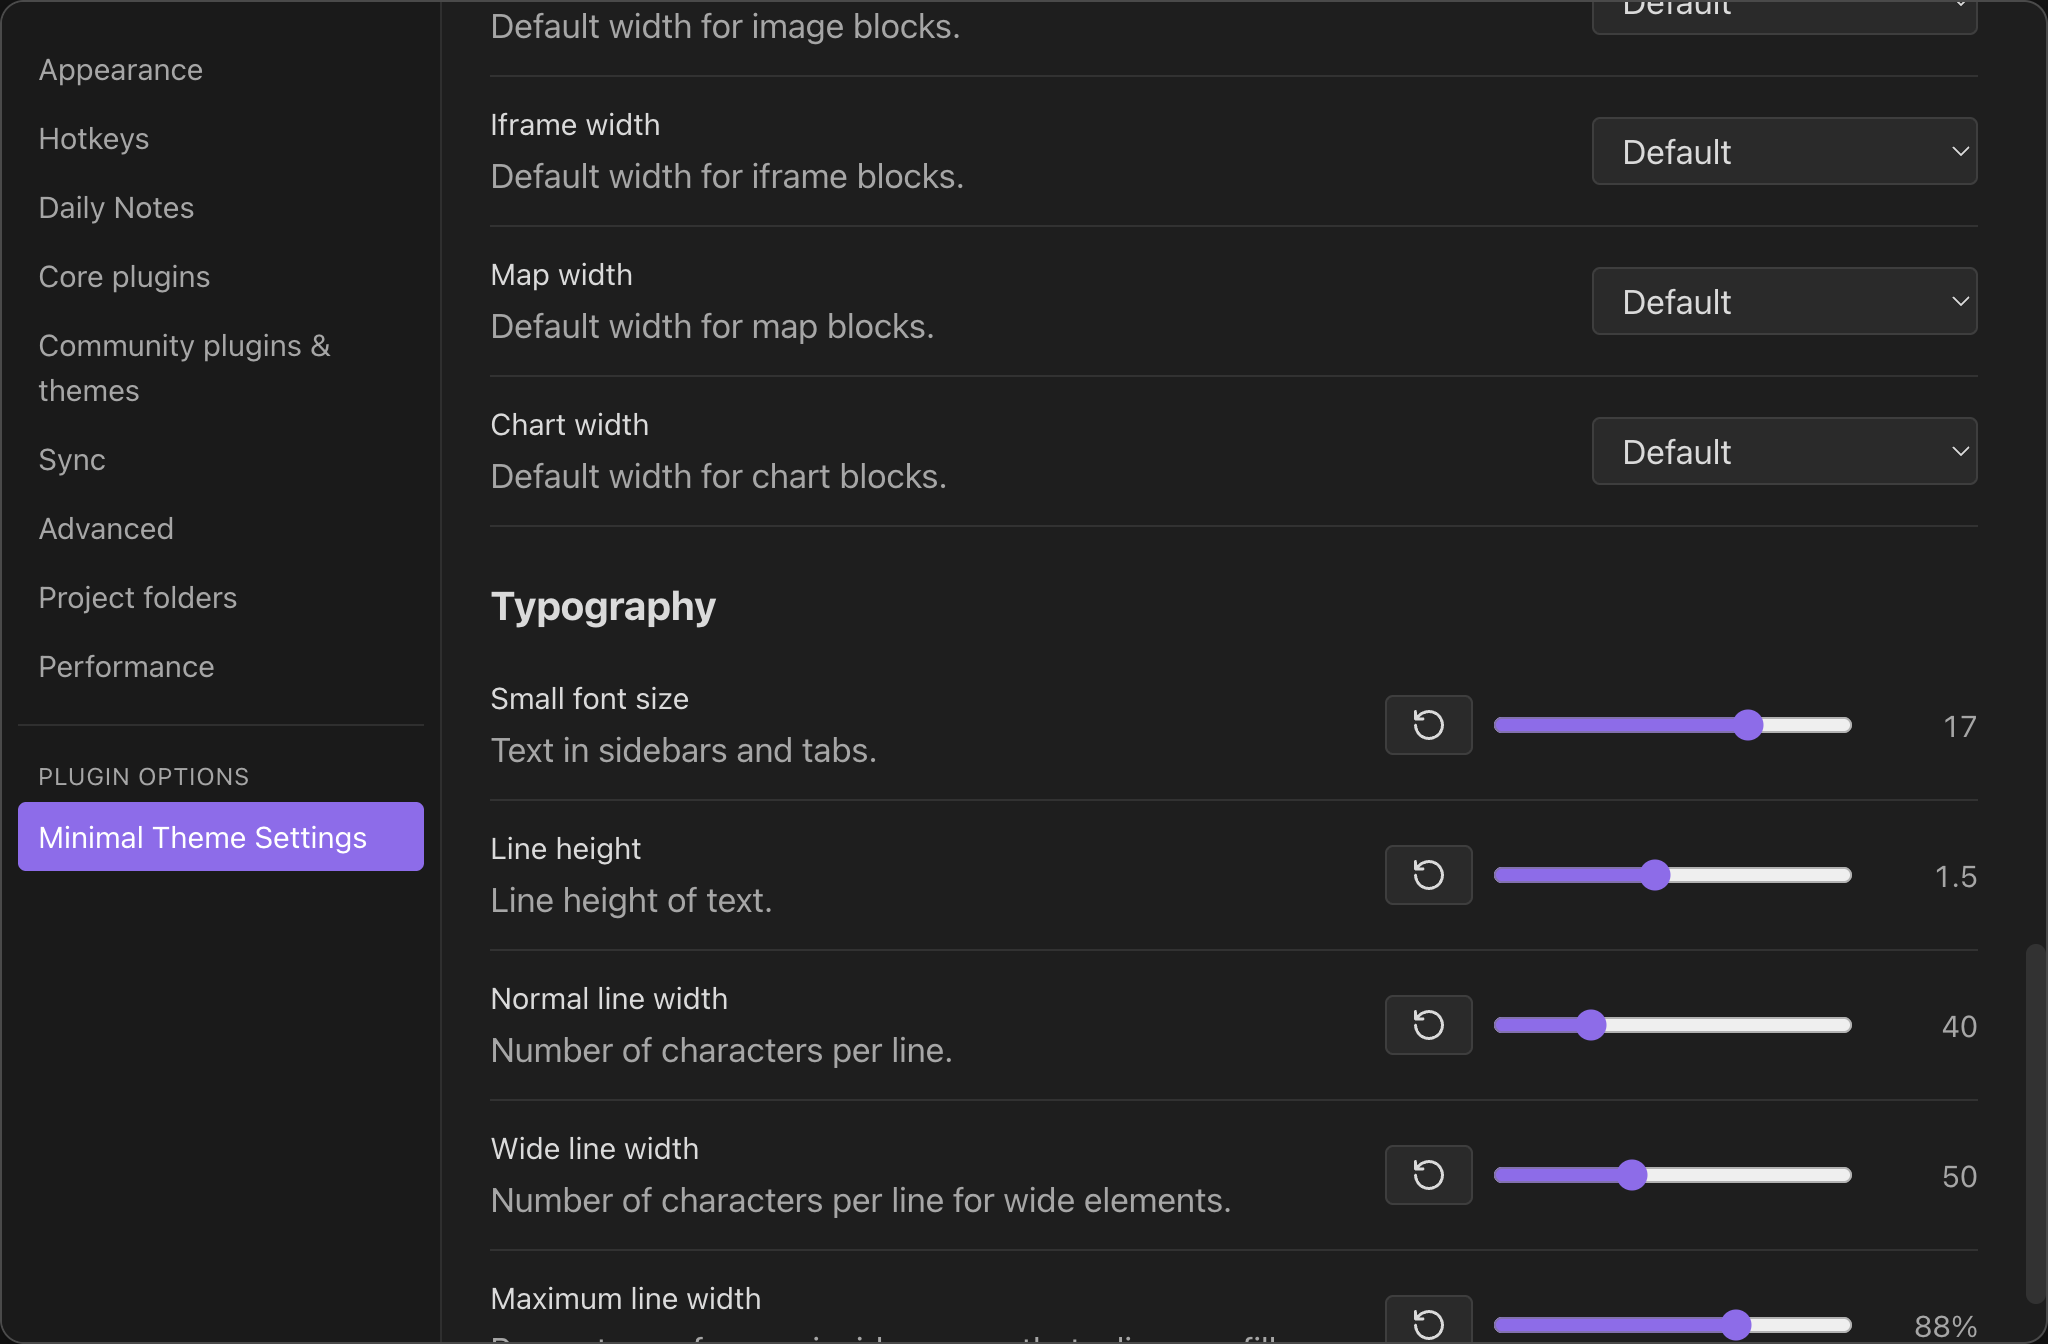
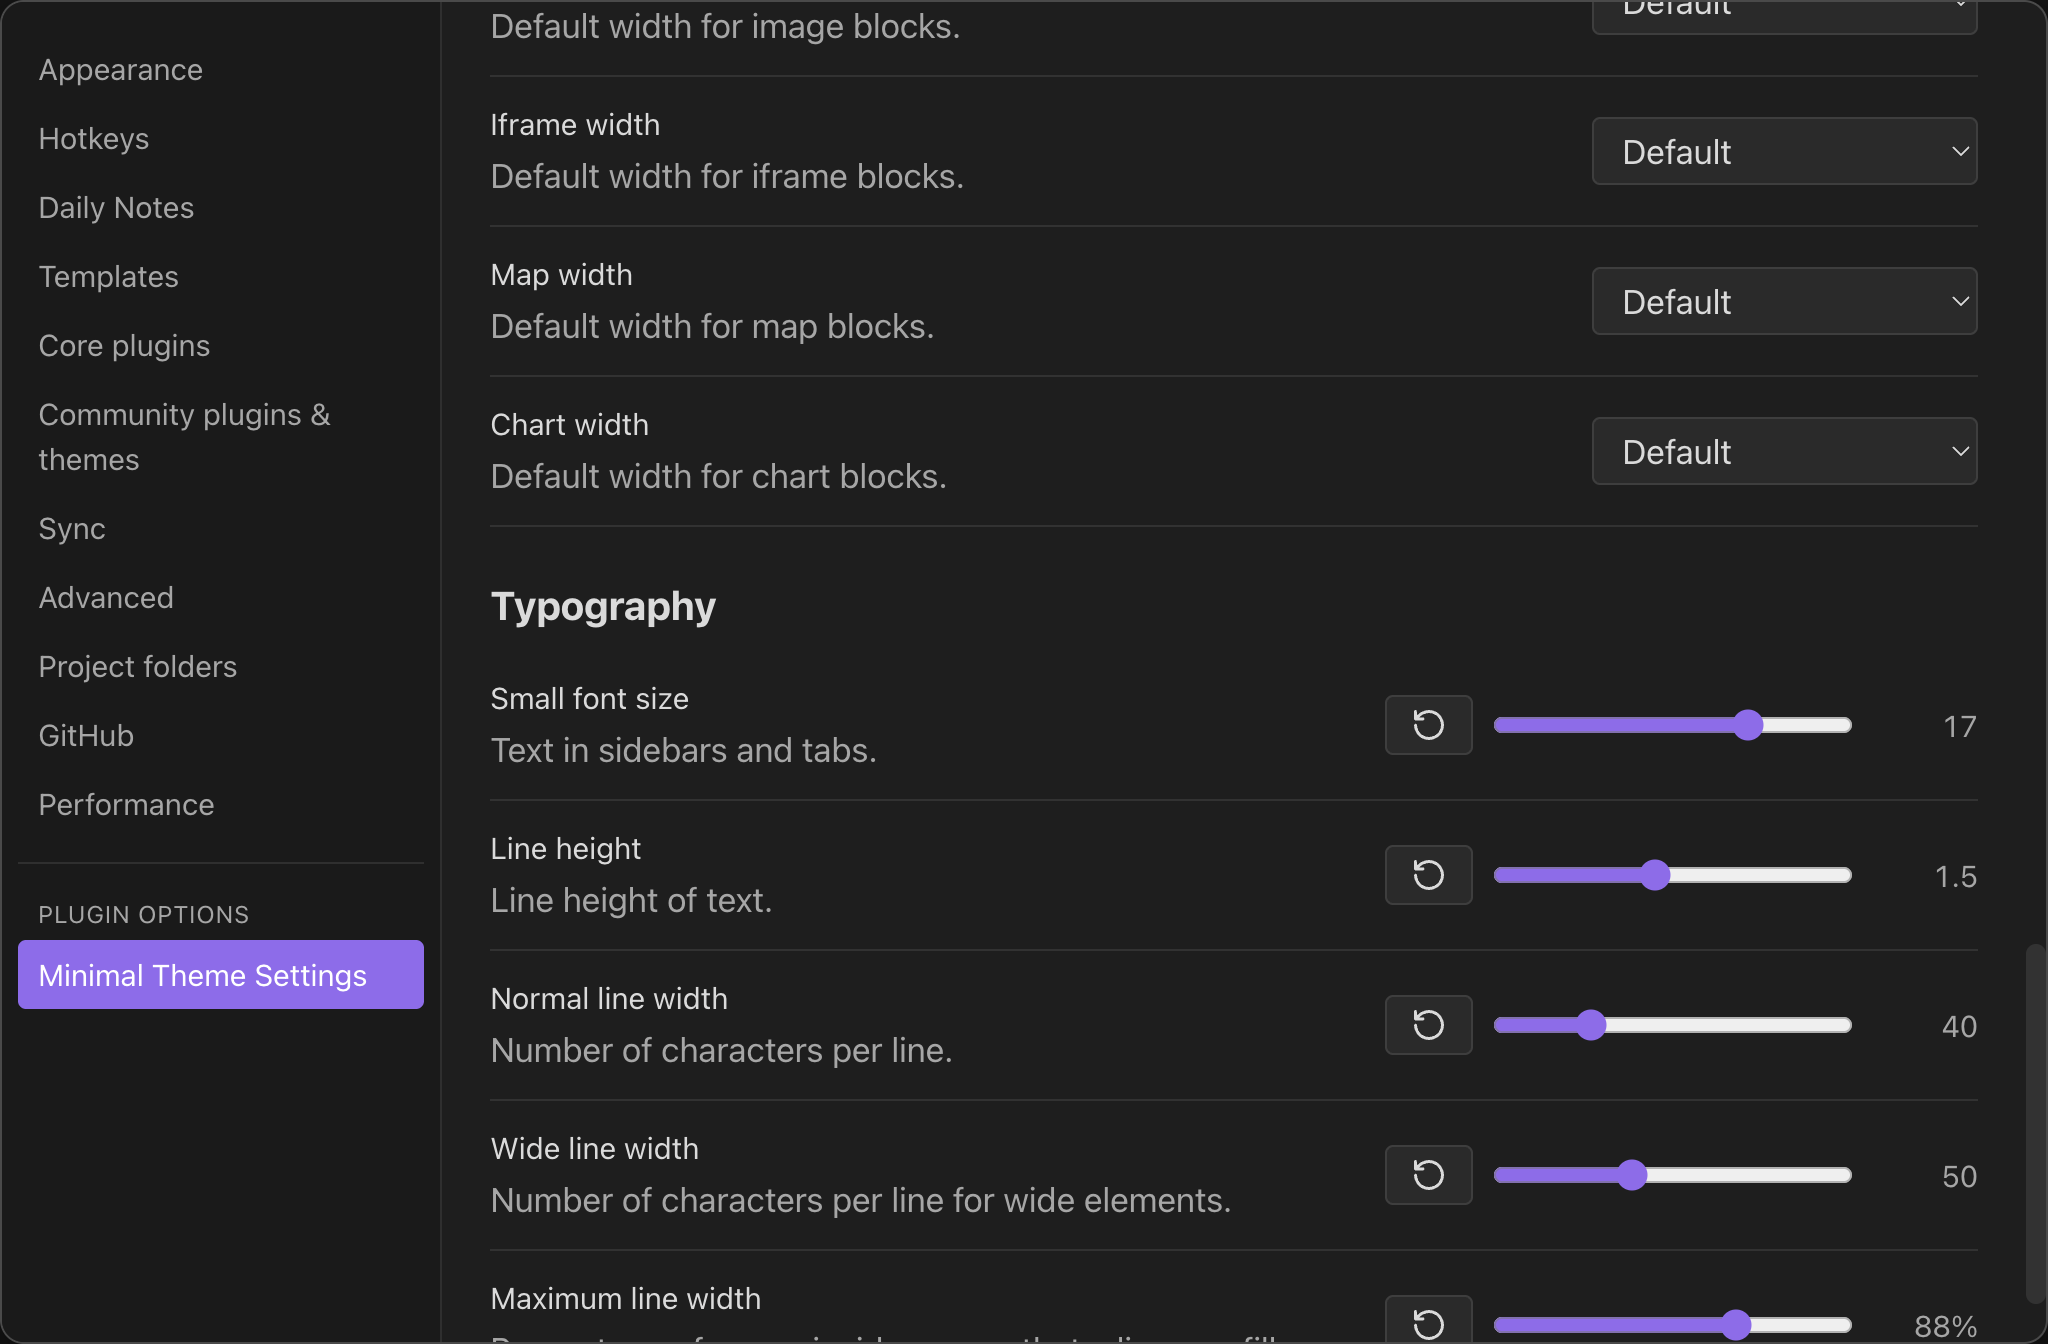
feat(mobile): native plugin network bridge and wss relay CSP
requestUrl/fetch from plugins were blocked by the shell CSP on mobile.
Route them through URLSession and allow wss: for the Threads relay.

diff --git a/ios/App/App/GeodeManagedVaultPlugin.swift b/ios/App/App/GeodeManagedVaultPlugin.swift
@@ -111,7 +111,9 @@ final class GeodeManagedVaultPlugin: CAPPlugin, CAPBridgedPlugin, UIDocumentPick
             CAPPluginMethod(name: "getSecret", returnType: CAPPluginReturnPromise),
             CAPPluginMethod(name: "setSecret", returnType: CAPPluginReturnPromise),
             CAPPluginMethod(name: "removeSecret", returnType: CAPPluginReturnPromise),
-            CAPPluginMethod(name: "openExternal", returnType: CAPPluginReturnPromise)
+            CAPPluginMethod(name: "openExternal", returnType: CAPPluginReturnPromise),
+            CAPPluginMethod(name: "httpRequest", returnType: CAPPluginReturnPromise),
+            CAPPluginMethod(name: "cancelHttpRequest", returnType: CAPPluginReturnPromise)
         ]
 #if DEBUG
         methods.append(CAPPluginMethod(name: "debugProbe", returnType: CAPPluginReturnPromise))
@@ -506,6 +508,68 @@ final class GeodeManagedVaultPlugin: CAPPlugin, CAPBridgedPlugin, UIDocumentPick
             }
             return [:]
         }
+    }
+
+    // MARK: Plugin network (URLSession; the WebView CSP blocks direct plugin fetches)
+
+    private static let httpResponseLimit = 32 * 1024 * 1024
+    private static let httpDefaultTimeout: TimeInterval = 30
+    private static let httpMaxTimeout: TimeInterval = 120
+    private let httpTasksLock = NSLock()
+    private var httpTasks: [String: URLSessionTask] = [:]
+
+    @objc func httpRequest(_ call: CAPPluginCall) {
+        guard let id = call.getString("id"), !id.isEmpty, id.count <= 100,
+              let value = call.getString("url"), let url = URL(string: value),
+              let scheme = url.scheme?.lowercased(), scheme == "https" || scheme == "http" else {
+            call.reject("Only http(s) requests are supported", "INVALID_URL")
+            return
+        }
+        var request = URLRequest(url: url)
+        request.httpMethod = (call.getString("method") ?? "GET").uppercased()
+        let requestedTimeout = TimeInterval(call.getInt("timeoutMs") ?? 0) / 1000
+        request.timeoutInterval = requestedTimeout > 0 ? min(requestedTimeout, Self.httpMaxTimeout) : Self.httpDefaultTimeout
+        for (name, headerValue) in call.getObject("headers") ?? [:] {
+            guard let text = headerValue as? String else { continue }
+            request.setValue(text, forHTTPHeaderField: name)
+        }
+        if let base64 = call.getString("bodyBase64") {
+            guard let body = Data(base64Encoded: base64), body.count <= Self.httpResponseLimit else {
+                call.reject("Request body is invalid or too large", "INVALID_BODY")
+                return
+            }
+            request.httpBody = body
+        }
+        let task = URLSession.shared.dataTask(with: request) { [weak self] data, response, error in
+            self?.httpTasksLock.lock(); self?.httpTasks[id] = nil; self?.httpTasksLock.unlock()
+            if let error = error as NSError? {
+                call.reject(error.code == NSURLErrorCancelled ? "Request cancelled" : "Network request failed", error.code == NSURLErrorCancelled ? "CANCELLED" : "NETWORK_ERROR")
+                return
+            }
+            guard let http = response as? HTTPURLResponse, let data else {
+                call.reject("Network request failed", "NETWORK_ERROR")
+                return
+            }
+            guard data.count <= Self.httpResponseLimit else {
+                call.reject("Response exceeds the mobile limit", "RESPONSE_TOO_LARGE")
+                return
+            }
+            var headers: JSObject = [:]
+            for (key, headerValue) in http.allHeaderFields {
+                if let key = key as? String, let headerValue = headerValue as? String { headers[key.lowercased()] = headerValue }
+            }
+            call.resolve(["status": http.statusCode, "headers": headers, "bodyBase64": data.base64EncodedString()])
+        }
+        httpTasksLock.lock(); httpTasks[id] = task; httpTasksLock.unlock()
+        task.resume()
+    }
+
+    @objc func cancelHttpRequest(_ call: CAPPluginCall) {
+        if let id = call.getString("id") {
+            httpTasksLock.lock(); let task = httpTasks[id]; httpTasksLock.unlock()
+            task?.cancel()
+        }
+        call.resolve()
     }
 
     // MARK: System browser and deep links

diff --git a/tests/unit/host/mobile-plugin-host.test.ts b/tests/unit/host/mobile-plugin-host.test.ts
@@ -190,3 +190,51 @@ describe("deep link parsing for plugin protocol handlers", () => {
     });
   });
 });
+
+describe("mobile native network for plugins", () => {
+  const nativeWithHttp = (httpRequest: ManagedVaultPlugin["httpRequest"], cancelHttpRequest = vi.fn(async () => ({}) as Record<string, never>)) =>
+    ({ httpRequest, cancelHttpRequest, addListener: vi.fn(async () => ({ remove: vi.fn() })) }) as unknown as ManagedVaultPlugin;
+
+  it("has no network service when the native bridge lacks httpRequest", () => {
+    const host = createCapacitorHost({ addListener: vi.fn() } as unknown as ManagedVaultPlugin, createBrowserHost(createBrowserHostState()));
+    expect(host.network).toBeUndefined();
+  });
+
+  it("encodes request bodies and decodes binary responses through the native bridge", async () => {
+    const httpRequest = vi.fn(async () => ({ status: 201, headers: { "content-type": "application/octet-stream" }, bodyBase64: "AAEC/w==" }));
+    const host = createCapacitorHost(nativeWithHttp(httpRequest), createBrowserHost(createBrowserHostState()));
+    const response = await host.network!.request({ url: "https://docs.googleapis.com/v1/documents", method: "POST", headers: { Authorization: "Bearer x" }, body: '{"a":"é"}' });
+    expect(response.status).toBe(201);
+    expect([...new Uint8Array(response.body)]).toEqual([0, 1, 2, 255]);
+    const call = httpRequest.mock.calls[0][0] as { bodyBase64: string; url: string; id: string };
+    expect(new TextDecoder().decode(Uint8Array.from(atob(call.bodyBase64), (c) => c.charCodeAt(0)))).toBe('{"a":"é"}');
+    expect(call.url).toBe("https://docs.googleapis.com/v1/documents");
+  });
+
+  it("cancels the native task when the caller aborts", async () => {
+    let release!: () => void;
+    const httpRequest = vi.fn(() => new Promise<{ status: number; headers: Record<string, string>; bodyBase64: string }>((resolve) => { release = () => resolve({ status: 200, headers: {}, bodyBase64: "" }); }));
+    const cancel = vi.fn(async () => ({}) as Record<string, never>);
+    const host = createCapacitorHost(nativeWithHttp(httpRequest, cancel), createBrowserHost(createBrowserHostState()));
+    const controller = new AbortController();
+    const pending = host.network!.request({ url: "https://example.com/" }, controller.signal);
+    controller.abort();
+    release();
+    await expect(pending).rejects.toMatchObject({ name: "AbortError" });
+    expect(cancel).toHaveBeenCalledWith({ id: (httpRequest.mock.calls[0][0] as { id: string }).id });
+    await expect(host.network!.request({ url: "https://example.com/" }, controller.signal)).rejects.toMatchObject({ name: "AbortError" });
+  });
+
+  it("exposes plugin fetch only when the host has a network service", async () => {
+    const { createLegacyGeodeFacade } = await import("../../../src/renderer/host/legacy-facade");
+    const none = createLegacyGeodeFacade(createBrowserHost(createBrowserHostState()));
+    expect(none.pluginFetch).toBeUndefined();
+    const httpRequest = vi.fn(async () => ({ status: 200, headers: { "x-k": "v" }, bodyBase64: btoa("ok") }));
+    const host = createCapacitorHost(nativeWithHttp(httpRequest), createBrowserHost(createBrowserHostState()));
+    const facade = createLegacyGeodeFacade(host);
+    const result = await facade.pluginFetch!({ url: "https://example.com/u", method: "GET", headers: {} });
+    expect(result.status).toBe(200);
+    expect(new TextDecoder().decode(result.arrayBuffer)).toBe("ok");
+    expect(result.headers).toEqual({ "x-k": "v" });
+  });
+});

diff --git a/src/renderer/host/capacitor-host.ts b/src/renderer/host/capacitor-host.ts
@@ -65,6 +65,9 @@ export interface ManagedVaultPlugin extends Plugin {
   getSecret?(options: { namespace: string; key: string }): Promise<{ value: string | null }>;
   setSecret?(options: { namespace: string; key: string; value: string }): Promise<EmptyResult>;
   removeSecret?(options: { namespace: string; key: string }): Promise<EmptyResult>;
+  /** Native URLSession request (the WebView CSP blocks plugin network access). */
+  httpRequest?(options: { id: string; url: string; method?: string; headers?: Record<string, string>; bodyBase64?: string; timeoutMs?: number }): Promise<{ status: number; headers: Record<string, string>; bodyBase64: string }>;
+  cancelHttpRequest?(options: { id: string }): Promise<EmptyResult>;
   /** Hands an http(s) URL to the system browser. */
   openExternal?(options: { url: string }): Promise<EmptyResult>;
   addListener(eventName: "change", listenerFunc: (event: VaultEvent) => void): Promise<PluginListenerHandle>;
@@ -189,6 +192,26 @@ export function createCapacitorHost(plugin: ManagedVaultPlugin, portable: HostSe
     set: async (namespace, key, value) => { await plugin.setSecret!({ namespace, key, value }); },
     remove: async (namespace, key) => { await plugin.removeSecret!({ namespace, key }); },
   } : undefined);
+  const toBase64 = (data: ArrayBuffer | string | undefined): string | undefined => {
+    if (data === undefined) return undefined;
+    const bytes = typeof data === "string" ? new TextEncoder().encode(data) : new Uint8Array(data);
+    let binary = "";
+    for (const byte of bytes) binary += String.fromCharCode(byte);
+    return btoa(binary);
+  };
+  const network: HostServices["network"] = plugin.httpRequest ? {
+    request: async (input, signal) => {
+      if (signal?.aborted) throw new DOMException("Request cancelled", "AbortError");
+      const id = crypto.randomUUID();
+      const cancel = () => { void plugin.cancelHttpRequest?.({ id }); };
+      signal?.addEventListener("abort", cancel, { once: true });
+      try {
+        const result = await plugin.httpRequest!({ id, url: input.url, method: input.method, headers: input.headers, bodyBase64: toBase64(input.body) });
+        if (signal?.aborted) throw new DOMException("Request cancelled", "AbortError");
+        return { status: result.status, headers: result.headers, body: decodeBase64(result.bodyBase64) };
+      } finally { signal?.removeEventListener("abort", cancel); }
+    },
+  } : undefined;
   const formFactor = typeof window !== "undefined" && window.matchMedia?.("(min-width: 701px)").matches
     ? "tablet" as const
     : "phone" as const;
@@ -341,6 +364,7 @@ export function createCapacitorHost(plugin: ManagedVaultPlugin, portable: HostSe
       },
     },
     secrets,
+    ...(network ? { network } : {}),
     navigation: {
       ...portable.navigation,
       openExternal: async (url) => {

diff --git a/src/renderer/host/legacy-facade.ts b/src/renderer/host/legacy-facade.ts
@@ -24,6 +24,15 @@ export function createLegacyGeodeFacade(host: HostServices): GeodeApi {
     list: () => host.vaultFiles.list(),
     httpRequest: async (_id, input) => { if (!host.network) throw new Error("Host networking unavailable"); return host.network.request(input); },
     cancelHttpRequest: () => {},
+    // Plugins' raw fetch() is blocked by the shell CSP; hosts with a native
+    // network service (iOS) proxy it so plugin code sees a real Response.
+    ...(host.network ? {
+      pluginFetch: async (request) => {
+        const body = request.bodyBuffer;
+        const response = await host.network!.request({ url: request.url, method: request.method, headers: request.headers, body });
+        return { status: response.status, statusText: "", headers: response.headers, arrayBuffer: response.body };
+      },
+    } : {}),
     claimSyncOwner: async () => host.syncSafety?.claimOwner() ?? null,
     hubSync: host.hubSync ?? { call: async () => { throw new Error("Hub sync is unavailable on this host"); }, abort: () => {} },
     privateSyncStorage: async (token, binding, request) => { if (!host.syncSafety) throw new Error("Private sync storage unavailable"); return host.syncSafety.storage(token, binding, request); },

diff --git a/docs/design/mobile-plugin-host-contract.md b/docs/design/mobile-plugin-host-contract.md
@@ -16,6 +16,8 @@ Threads bundle was (correctly) rejected by the 16 MiB mobile entrypoint cap.
 | Update safety | `PluginFileSet.entry` (`main.js` \| `main.mobile.js`) tells the host which file a rollback restores; the last known-good mobile bundle is kept on a failed update. |
 | Secrets | `loadSecret/saveSecret/removeSecret` work on mobile: iOS Keychain (`kSecAttrAccessibleWhenUnlockedThisDeviceOnly`), namespaced by plugin id. A plugin only receives an opaque per-session capability minted with its entrypoint read; it cannot address another plugin's namespace. The plain browser host keeps secrets **unavailable**. |
 | OAuth return | `geode://<action>?…` links (the `obsidian://` alias too) reach `registerObsidianProtocolHandler(action, …)`. Native forwards them with `retainUntilConsumed`, and the app buffers links that arrive before a handler registers. `Info.plist` registers the `geode` scheme. |
+| Network | `requestUrl` and plugin `fetch()` go through a native `URLSession` bridge (`host.network`): http(s) only, 30 s default / 120 s max timeout, 32 MiB response cap, cancellable. The shell CSP (`default-src 'self'`) otherwise blocks every plugin request (found when the real Google Docs Sync bundle was loaded). |
+| WebSocket | The mobile CSP adds `connect-src 'self' wss:` so the Threads relay client can connect; no other direct network origin is allowed. |
 | Open a web page | `window.open(http(s) url)` is routed to the system browser (`UIApplication.open`); other schemes are refused. |
 
 Unchanged limits: no Node/Electron modules, ESM preflight, 16 MiB entrypoint cap, admission
